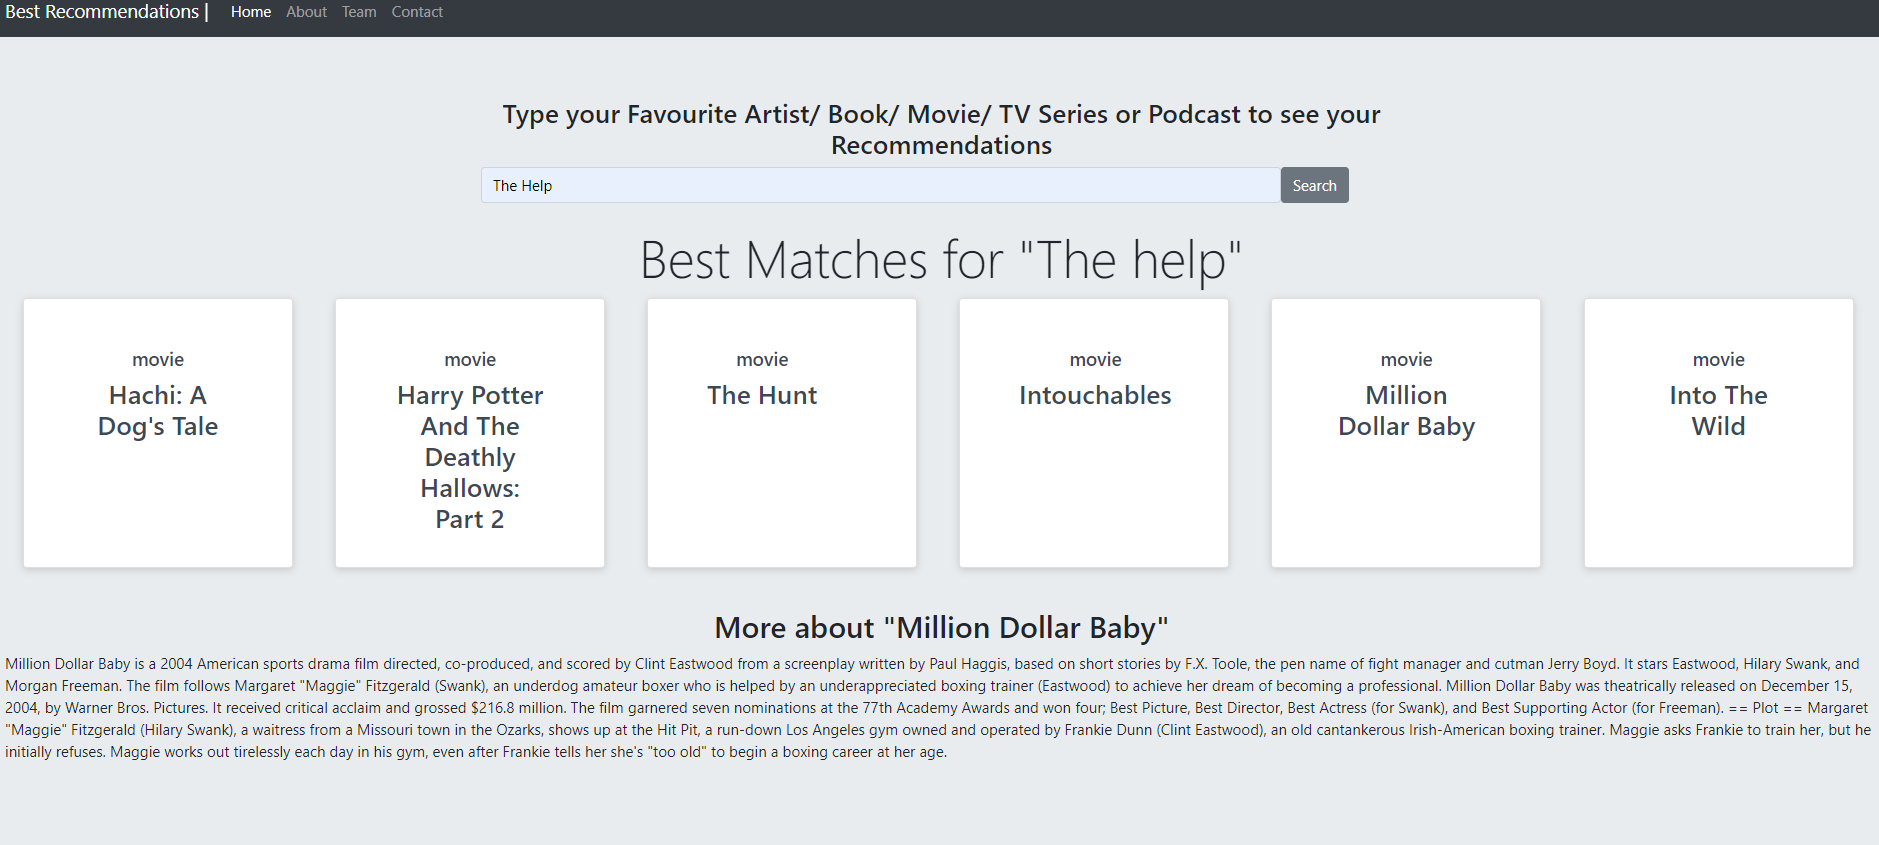
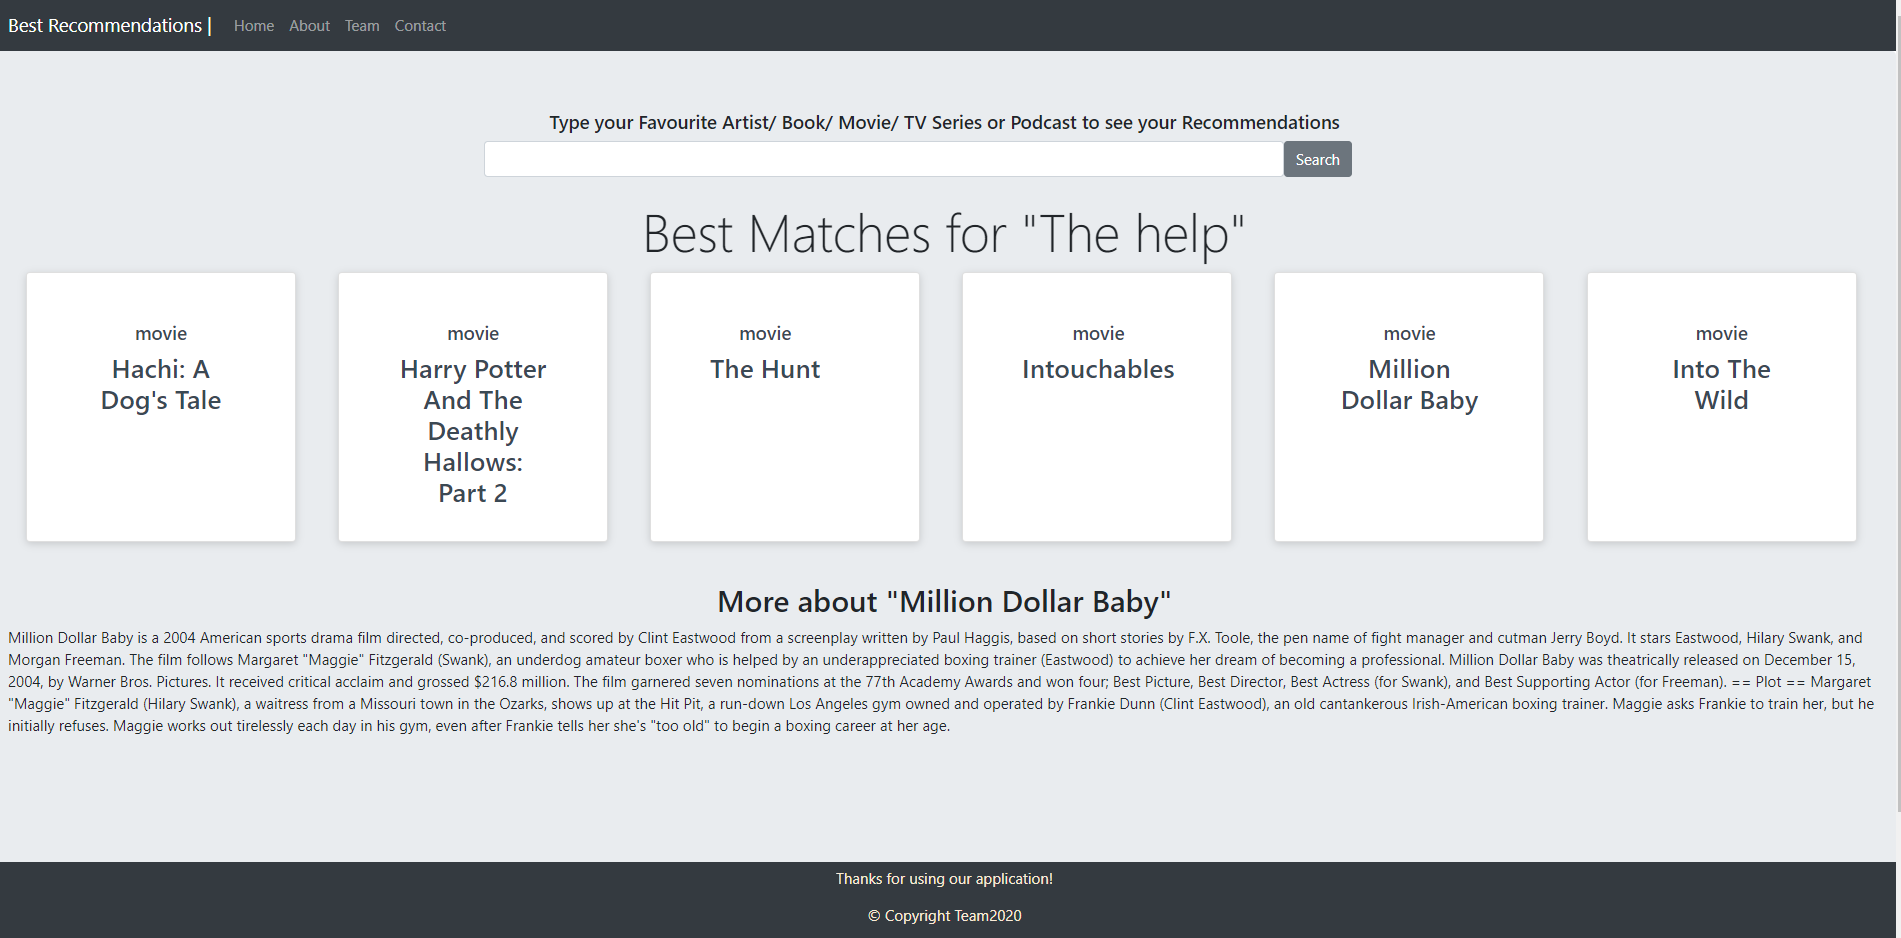
changes index layout

diff --git a/index.html b/index.html
@@ -36,8 +36,8 @@
         <div class="col-sm-6" id="search">
           <form>
             <div class="form-group">
-              <h3 for="UserSearch">Type your Favourite Artist/ Book/ Movie/ TV Series or Podcast to see your
-                Recommendations</h3>
+              <h5 for="UserSearch">Type your Favourite Artist/ Book/ Movie/ TV Series or Podcast to see your
+                Recommendations</h5>
                 <div class="row" id="searchControl">
               <input type="input" class="form-control mb-2" id="UserSearch">
               <button type="submit" class="btn btn-secondary mb-2" id="searchB">Search</button>
@@ -118,7 +118,7 @@
           <br>
 
           <!--Wikipedia extract of selected Result-->
-          <h2 id="wikiHeaderText">More about </h2>
+          <h2 id="wikiHeaderText"></h2>
           <p id="wikiText"></p>
         </div>
       </div>

diff --git a/Develop/script.js b/Develop/script.js
@@ -54,7 +54,7 @@ $(document).ready(function () {
       },
     }).then(function (response) {
       var pageNumber = Object.keys(response.query.pages);
-      $("#wikiHeaderText").append('"' + suggestion + '"');
+      $("#wikiHeaderText").append('More about "' + suggestion + '"');
       $("#wikiText").text(response.query.pages[pageNumber].extract);
     });
   }
